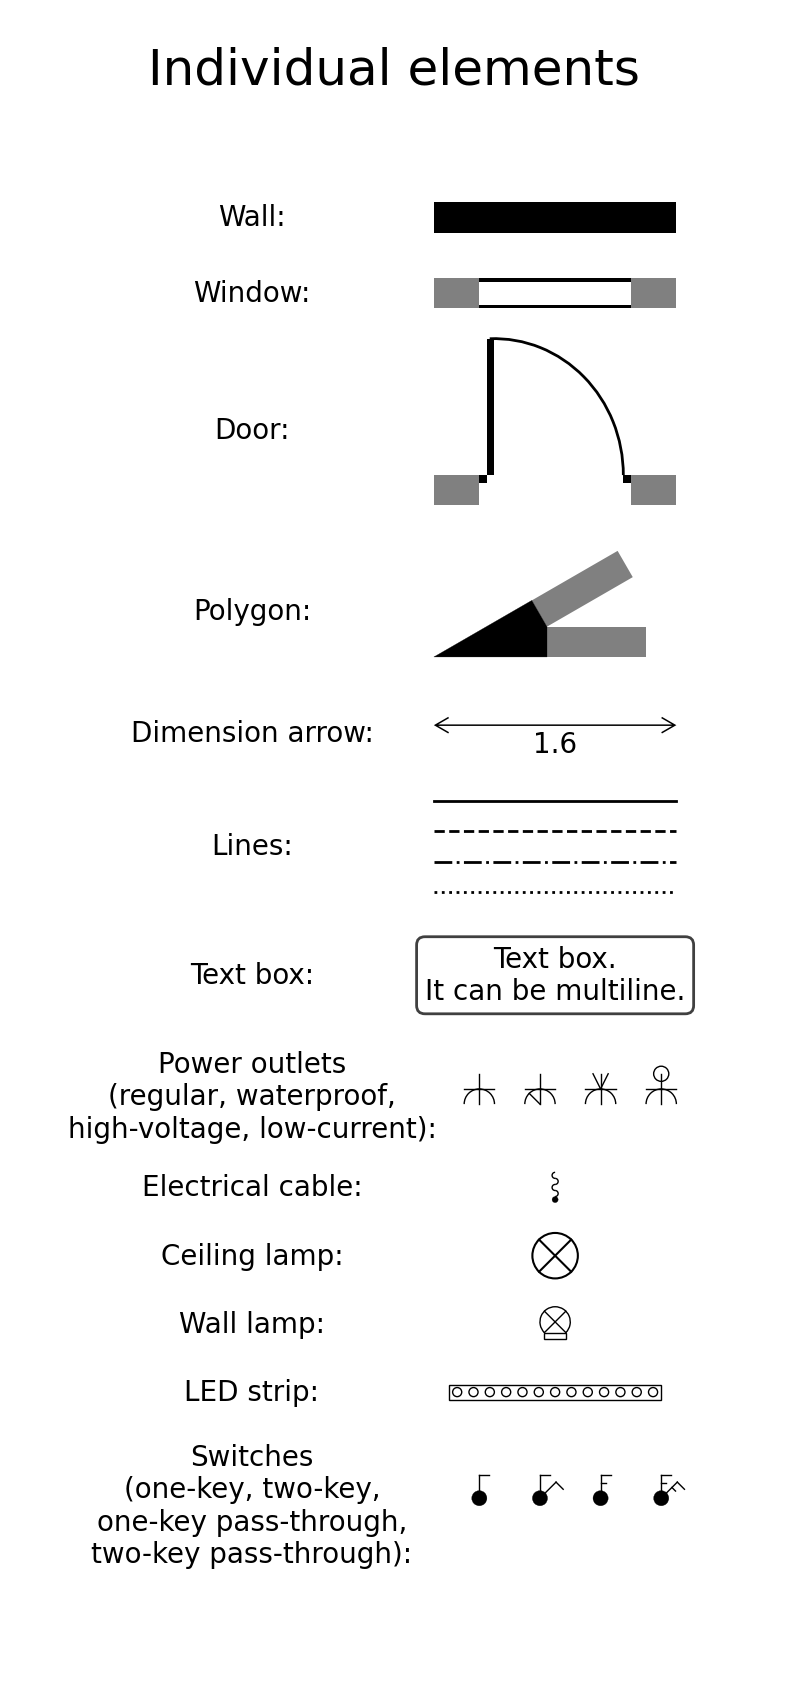
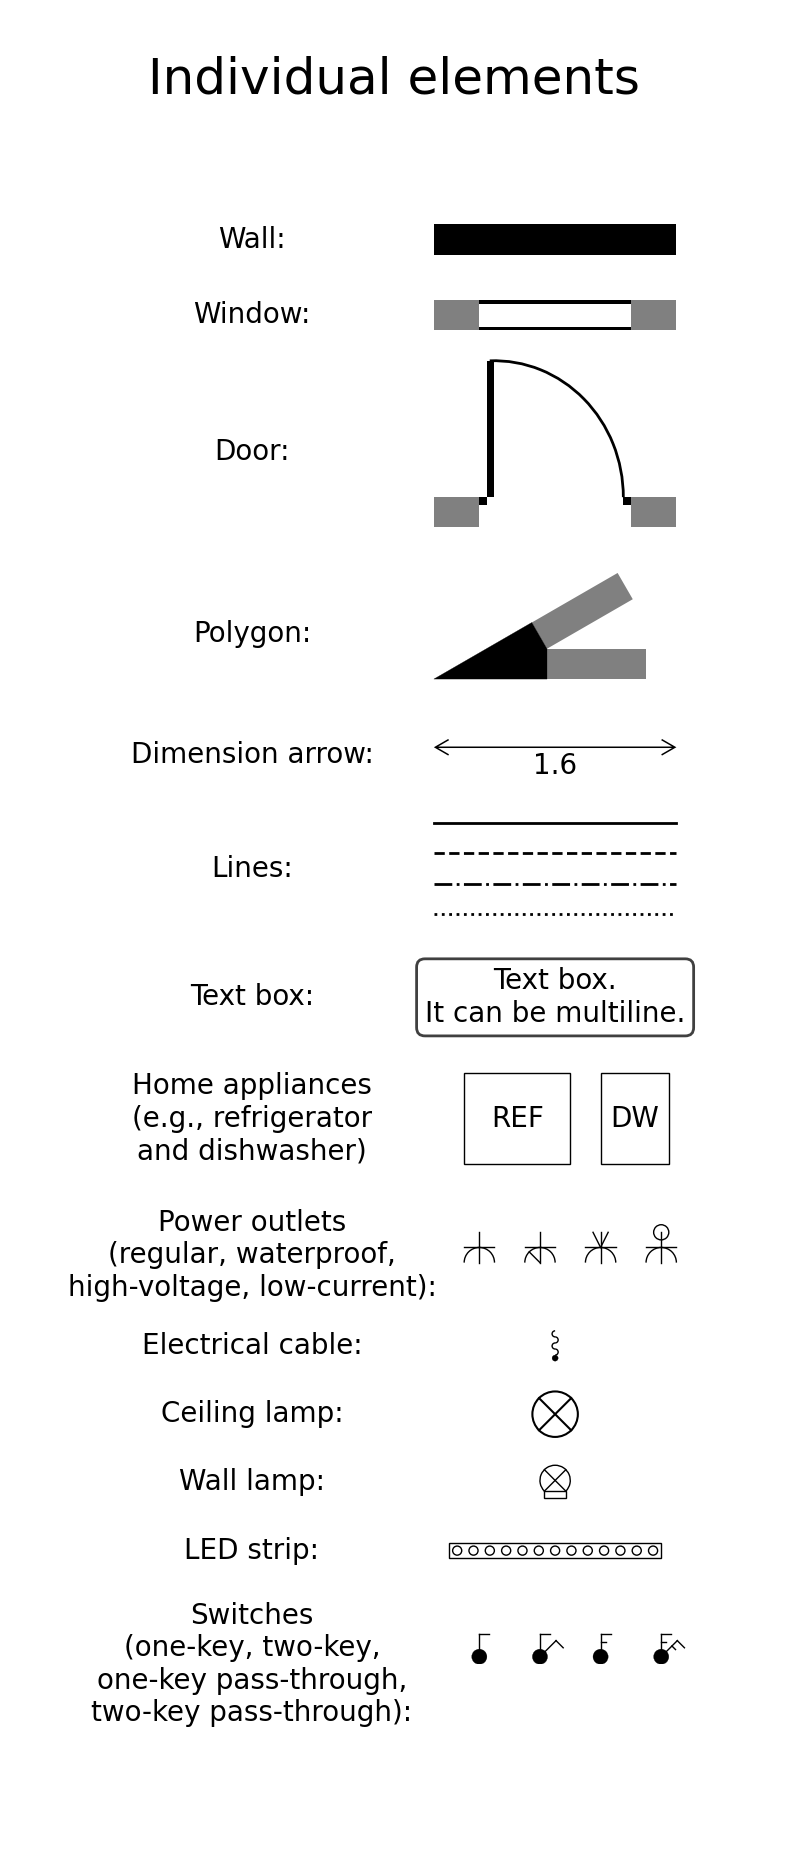
refac: Generalize fridge implementation

diff --git a/renovation/elements/multipurpose.py b/renovation/elements/multipurpose.py
@@ -5,10 +5,107 @@ Author: Nikolay Lysenko
 """
 
 
+import math
+from typing import Optional
+
 import matplotlib.axes
 from matplotlib import patches
 
+from renovation.constants import RIGHT_ANGLE_IN_DEGREES
+from renovation.utils import shift_in_direction
+from .anchor_mixins import CornerAnchorsMixin
 from .element import Element
+
+
+class LabeledRectangle(CornerAnchorsMixin, Element):
+    """Rectangle with a text inside. In particular, home appliances can be represented with it."""
+
+    def __init__(
+            self,
+            pivot_point: tuple[float, float],
+            label: str,
+            depth: float,
+            width: Optional[float] = None,
+            orientation_angle: float = 0,
+            another_pivot_point: Optional[tuple[float, float]] = None,
+            line_width: float = 0.5,
+            font_size: float = 10,
+            color: str = 'black'
+    ):
+        """
+        Initialize an instance.
+
+        :param pivot_point:
+            coordinates (in meters) of the pivot point;
+            here, it is the corner that is the bottom left one prior to rotation specified by
+            `orientation_angle`
+        :param depth:
+            depth of the element (in meters)
+        :param width:
+            width of the element (in meters)
+        :param orientation_angle:
+            angle (in degrees) that specifies orientation of the rectangle;
+            it is measured between X-axis and the element in positive direction (counterclockwise);
+            initial element is rotated around pivot point to get the desired orientation;
+            this argument is used only if `another_pivot_point` is not passed
+        :param another_pivot_point:
+            coordinates of additional pivot point (in meters);
+            here, it is the corner that is the bottom right one in the non-rotated configuration
+        :param line_width:
+            width of lines for `matplotlib`
+        :param font_size:
+            font size of the label text
+        :param color:
+            color to use for drawing the element
+        :return:
+            freshly created instance of `LabeledRectangle` class
+        """
+        if another_pivot_point is not None:
+            x_shift = another_pivot_point[0] - pivot_point[0]
+            y_shift = another_pivot_point[1] - pivot_point[1]
+            width = math.sqrt(x_shift ** 2 + y_shift ** 2)
+            orientation_angle = math.degrees(math.atan2(y_shift, x_shift))
+
+        self.pivot_point = pivot_point
+        self.width = width
+        self.depth = depth
+        self.length = width  # This attribute is needed by `CornerAnchorsMixin`.
+        self.thickness = depth  # This attribute is needed by `CornerAnchorsMixin`.
+        self.orientation_angle = orientation_angle
+        self.line_width = line_width
+        self.label = label
+        self.font_size = font_size
+        self.color = color
+
+    def draw(self, ax: matplotlib.axes.Axes) -> None:
+        """Draw the labeled rectangle."""
+        rectangle = patches.Rectangle(
+            self.pivot_point,
+            self.width,
+            self.depth,
+            angle=self.orientation_angle,
+            fill=False,
+            edgecolor=self.color,
+            lw=self.line_width
+        )
+        ax.add_patch(rectangle)
+
+        label_center = shift_in_direction(
+            shift_in_direction(self.pivot_point, 0.5 * self.width, self.orientation_angle),
+            0.5 * self.depth,
+            self.orientation_angle + RIGHT_ANGLE_IN_DEGREES
+        )
+        ax.text(
+            label_center[0],
+            label_center[1],
+            self.label,
+            color=self.color,
+            fontsize=self.font_size,
+            horizontalalignment='center',
+            verticalalignment='center',
+            rotation=self.orientation_angle,
+            rotation_mode='anchor'
+        )
 
 
 class Line(Element):

diff --git a/renovation/elements/registry.py b/renovation/elements/registry.py
@@ -5,12 +5,11 @@ Author: Nikolay Lysenko
 """
 
 
-from .appliances import Fridge
 from .electricity import ElectricalCable, PowerOutlet
 from .element import Element
 from .info import DimensionArrow, TextBox
 from .lighting import CeilingLamp, LEDStrip, Switch, WallLamp
-from .multipurpose import Line, Polygon
+from .multipurpose import LabeledRectangle, Line, Polygon
 from .wall_window_door import Door, Wall, Window
 
 
@@ -26,7 +25,7 @@ def create_elements_registry() -> dict[str, type(Element)]:
         'dimension_arrow': DimensionArrow,
         'door': Door,
         'electrical_cable': ElectricalCable,
-        'fridge': Fridge,
+        'labeled_rectangle': LabeledRectangle,
         'led_strip': LEDStrip,
         'line': Line,
         'polygon': Polygon,

diff --git a/renovation/elements/__init__.py b/renovation/elements/__init__.py
@@ -6,12 +6,11 @@ Author: Nikolay Lysenko
 
 
 from .anchor_mixins import CornerAnchorsMixin, PivotAnchorMixin
-from .appliances import Fridge
 from .electricity import ElectricalCable, PowerOutlet
 from .element import Element
 from .info import DimensionArrow, TextBox
 from .lighting import CeilingLamp, LEDStrip, WallLamp, Switch
-from .multipurpose import Line, Polygon
+from .multipurpose import LabeledRectangle, Line, Polygon
 from .registry import create_elements_registry
 from .wall_window_door import Door, Wall, Window
 
@@ -23,8 +22,8 @@ __all__ = [
     'Door',
     'ElectricalCable',
     'Element',
-    'Fridge',
     'LEDStrip',
+    'LabeledRectangle',
     'Line',
     'PivotAnchorMixin',
     'Polygon',

diff --git a/README.md b/README.md
@@ -17,15 +17,6 @@ The below figure demonstrates available elements.
 
 Some other elements can be composed of them. For example, in the next section it is shown how to draw ventilation duct and French balcony.
 
-Home appliances can be added in the same way. For example, a fridge footprint is configured as:
-```yaml
-- type: fridge
-  pivot_point: [1.2, 2.4]
-  width: 0.7
-  depth: 0.65
-  orientation_angle: 90
-```
-
 ## Usage
 
 To install a stable version, run:
